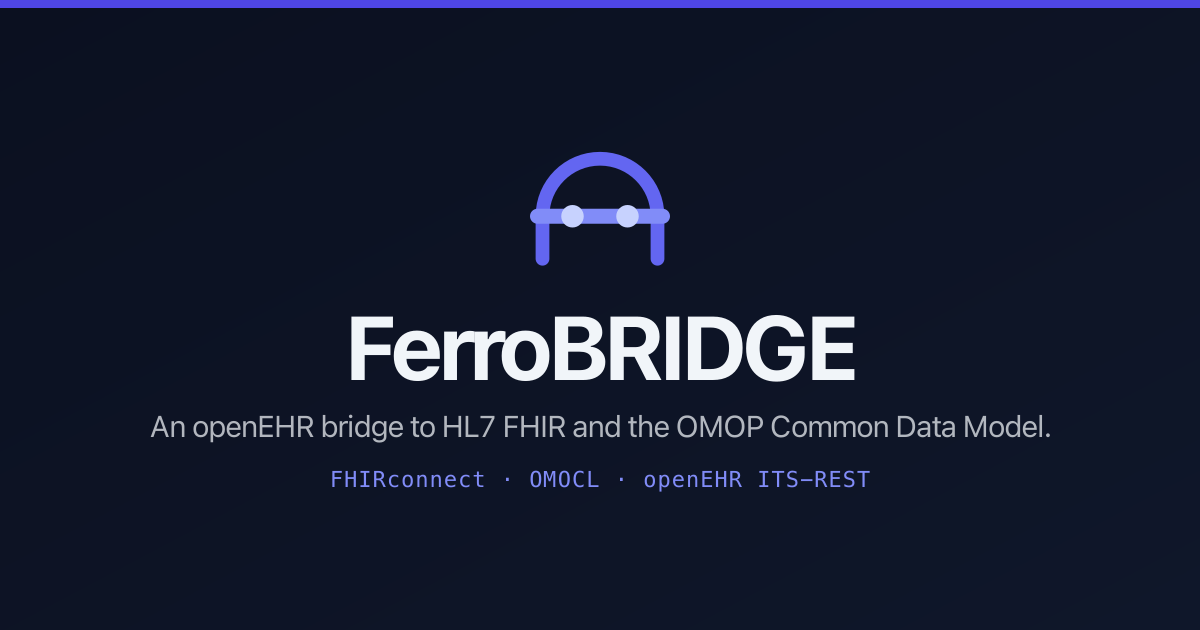
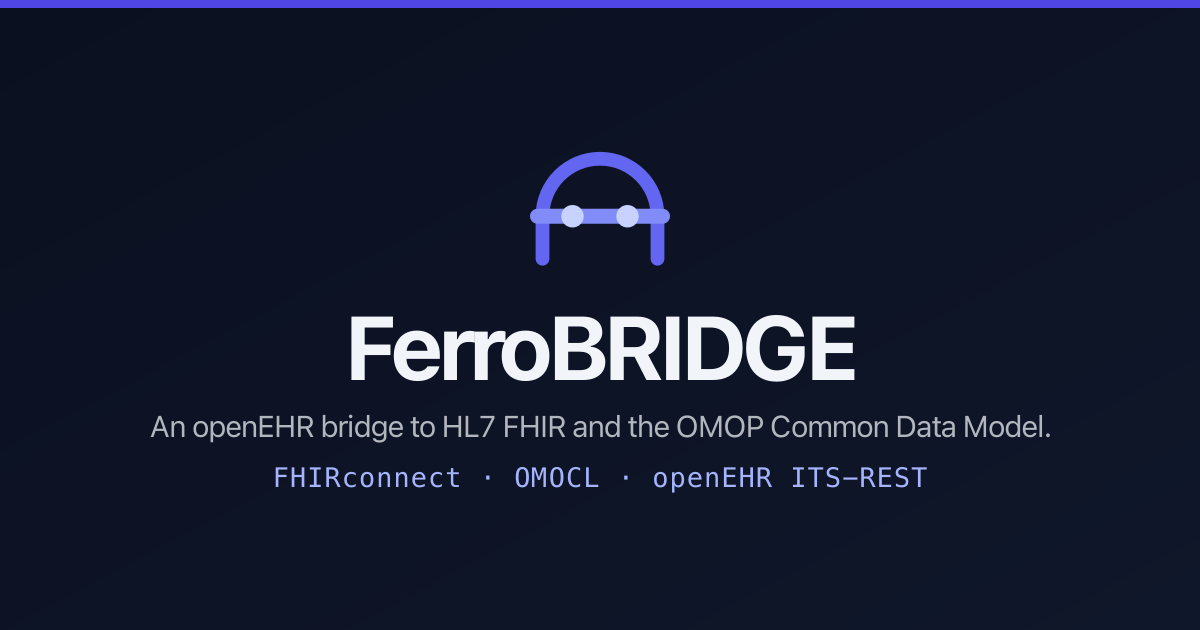
docs: run the approved palette on the landing page (#53)
The brand decision set "Indigo & Iron", and the landing page still carried the
pre-brand blue it was built with. Twenty-one rules read those tokens, so every
link, button, hover and gradient disagreed with the mark beside them. The six
token values change; no rule does.

The social card's specification line was set at 22px in the deck violet, which
vanishes at the size a link preview renders. It is larger and lighter now.

Also records where the palette applies, including the decision to keep mdBook's
stock themes, and corrects the workflow count in the repo map, which the
documentation site made stale.

Changed region(s): [[0.5242, 0.7238, 0.7708, 0.7841], [0.2158, 0.7238, 0.4008, 0.7841], [0.4317, 0.7238, 0.4933, 0.7841]]

diff --git a/website/landing/style.css b/website/landing/style.css
@@ -7,9 +7,9 @@
 
 :root {
   /* accent */
-  --fb-accent: #2f5fa8;
-  --fb-accent-600: #24497f;
-  --fb-accent-050: #eaf0f9;
+  --fb-accent: #4f46e5;
+  --fb-accent-600: #4338ca;
+  --fb-accent-050: #eef2ff;
   /* light theme */
   --fb-bg: #ffffff;
   --fb-surface: #f5f7fa;
@@ -32,9 +32,9 @@
     --fb-text: #eef2f7;
     --fb-muted: #a4aebc;
     --fb-border: #263041;
-    --fb-accent: #6d9bea;
-    --fb-accent-600: #8fb4f2;
-    --fb-accent-050: #16202f;
+    --fb-accent: #818cf8;
+    --fb-accent-600: #a5b4fc;
+    --fb-accent-050: #171a2e;
     --fb-shadow: 0 1px 2px rgba(0, 0, 0, 0.4), 0 8px 24px rgba(0, 0, 0, 0.4);
   }
 }

diff --git a/assets/brand/README.md b/assets/brand/README.md
@@ -90,6 +90,17 @@ rest of the FerroBRIDGE surfaces use the system font stack in
   rebuild the wordmark in another typeface.
 - Do not redraw the arch, the deck, or the nodes. The geometry is fixed.
 
+## Where the palette applies
+
+The landing page reads these values through its own `--fb-*` tokens in
+`website/landing/style.css`, so the site and the mark agree.
+
+The book keeps mdBook's stock `rust` and `coal` themes. Overriding an mdBook
+theme means carrying a copy of its CSS and re-reconciling it at every mdBook
+upgrade, and the book already carries the brand through the favicon and through
+the landing page a reader arrives from. Revisit this if the book ever needs a
+layout change that the stock themes cannot express.
+
 ## Regenerating the rasters
 
 The PNG and ICO files derive from the SVGs. Run these from the repository root

diff --git a/CLAUDE.md b/CLAUDE.md
@@ -57,8 +57,8 @@ There is no Cargo workspace yet. What exists:
   `versions.sh`, which fails when a file disagrees with the `docs/VERSIONS.md`
   pin matrix or claims a licence other than `BUSL-1.1`).
 - `.github/`: issue and pull-request templates, CODEOWNERS, Dependabot, and
-  four workflows that work on a repository with no code (CI, Scorecard,
-  CodeQL, SonarQube Cloud). `ci.yml` runs its workflow, shell, container and
+  five workflows that work on a repository with no code (CI, Docs,
+  Scorecard, CodeQL, SonarQube Cloud). `ci.yml` runs its workflow, shell, container and
   guard tier now and keeps the Rust tier gated behind a `Cargo.toml` detection
   job; its `conclusion` job is the single required check on `main`
   (`docs/ci-cd.md`). There is no release lane, because there is nothing to

diff --git a/CHANGELOG.md b/CHANGELOG.md
@@ -91,6 +91,13 @@ architecture is the output of the research program on
 
 ### Changed
 
+- The landing page runs the approved "Indigo & Iron" palette. It carried a
+  pre-brand blue that twenty-one rules read, so every link, button and
+  gradient disagreed with the mark beside them. Every accent now clears
+  WCAG AA against its background in both light and dark (#51).
+- The social card's specification line is larger and lighter, so it stays
+  legible at the size a link preview actually renders (#51).
+
 - `SECURITY.md` links the private advisory form directly, so a reporter can
   act on the policy without navigating by hand. The document carried no
   hyperlink at all, which is what Scorecard's Security-Policy check scores
